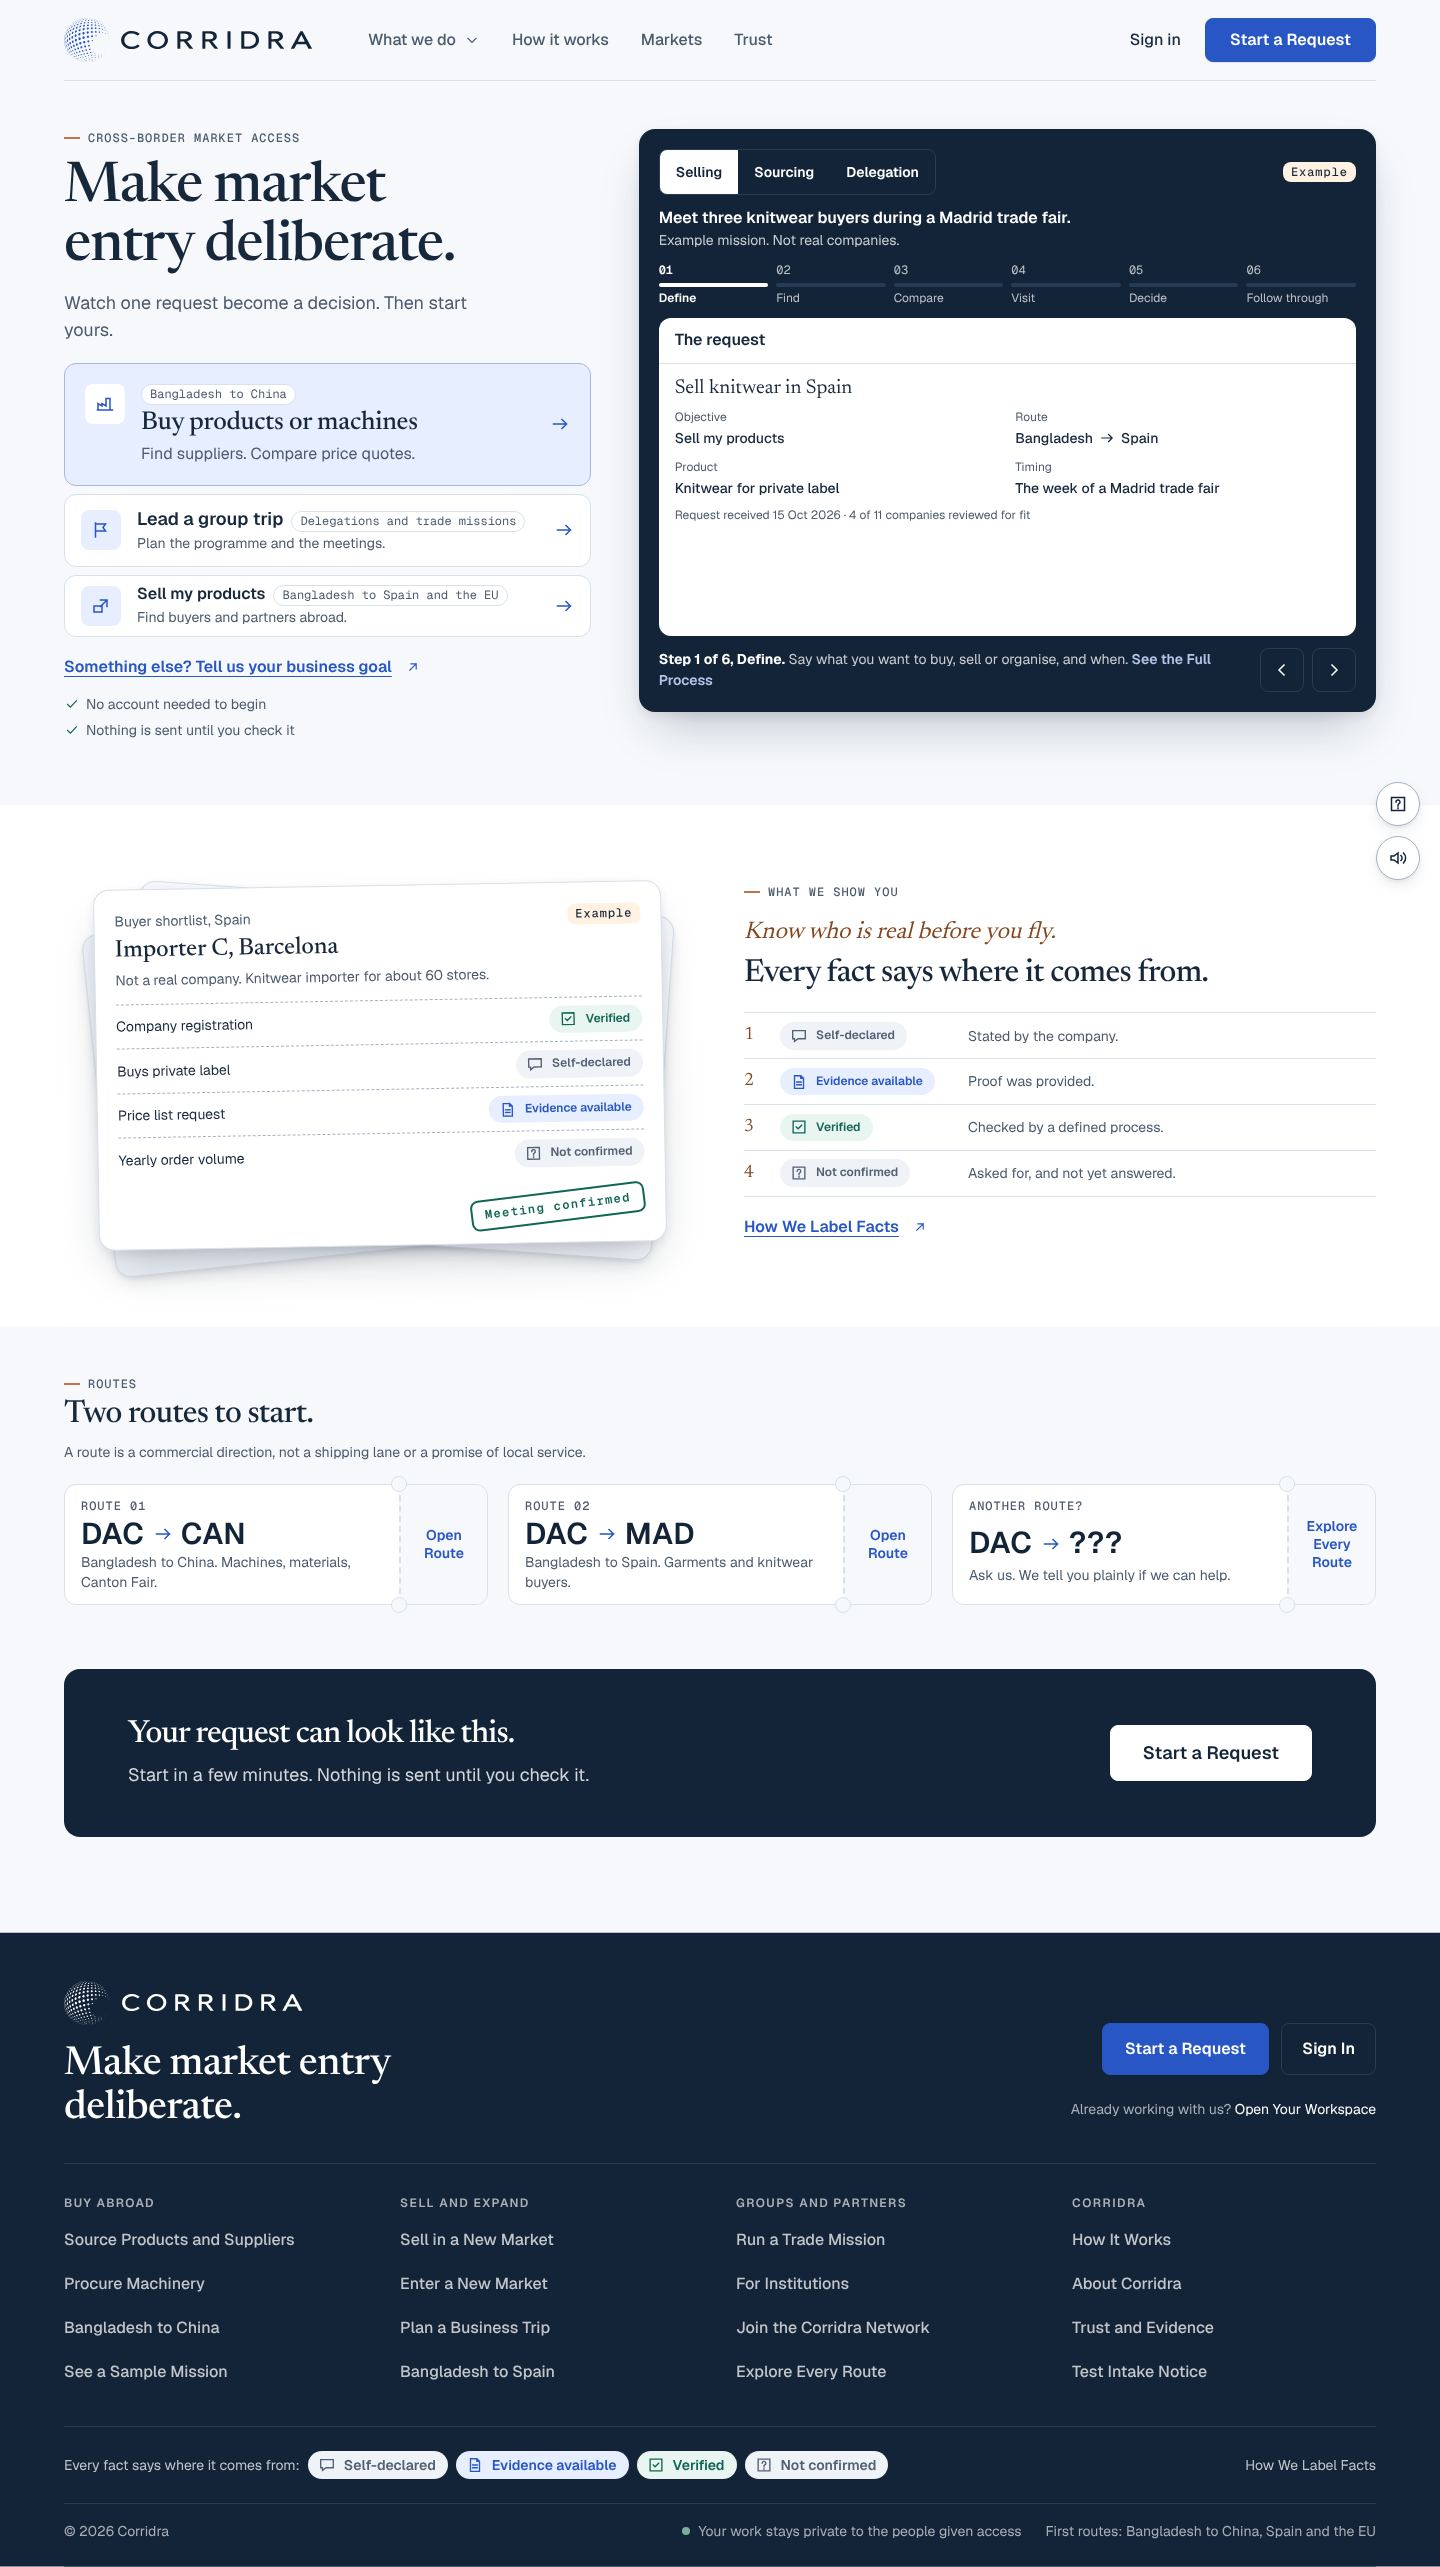
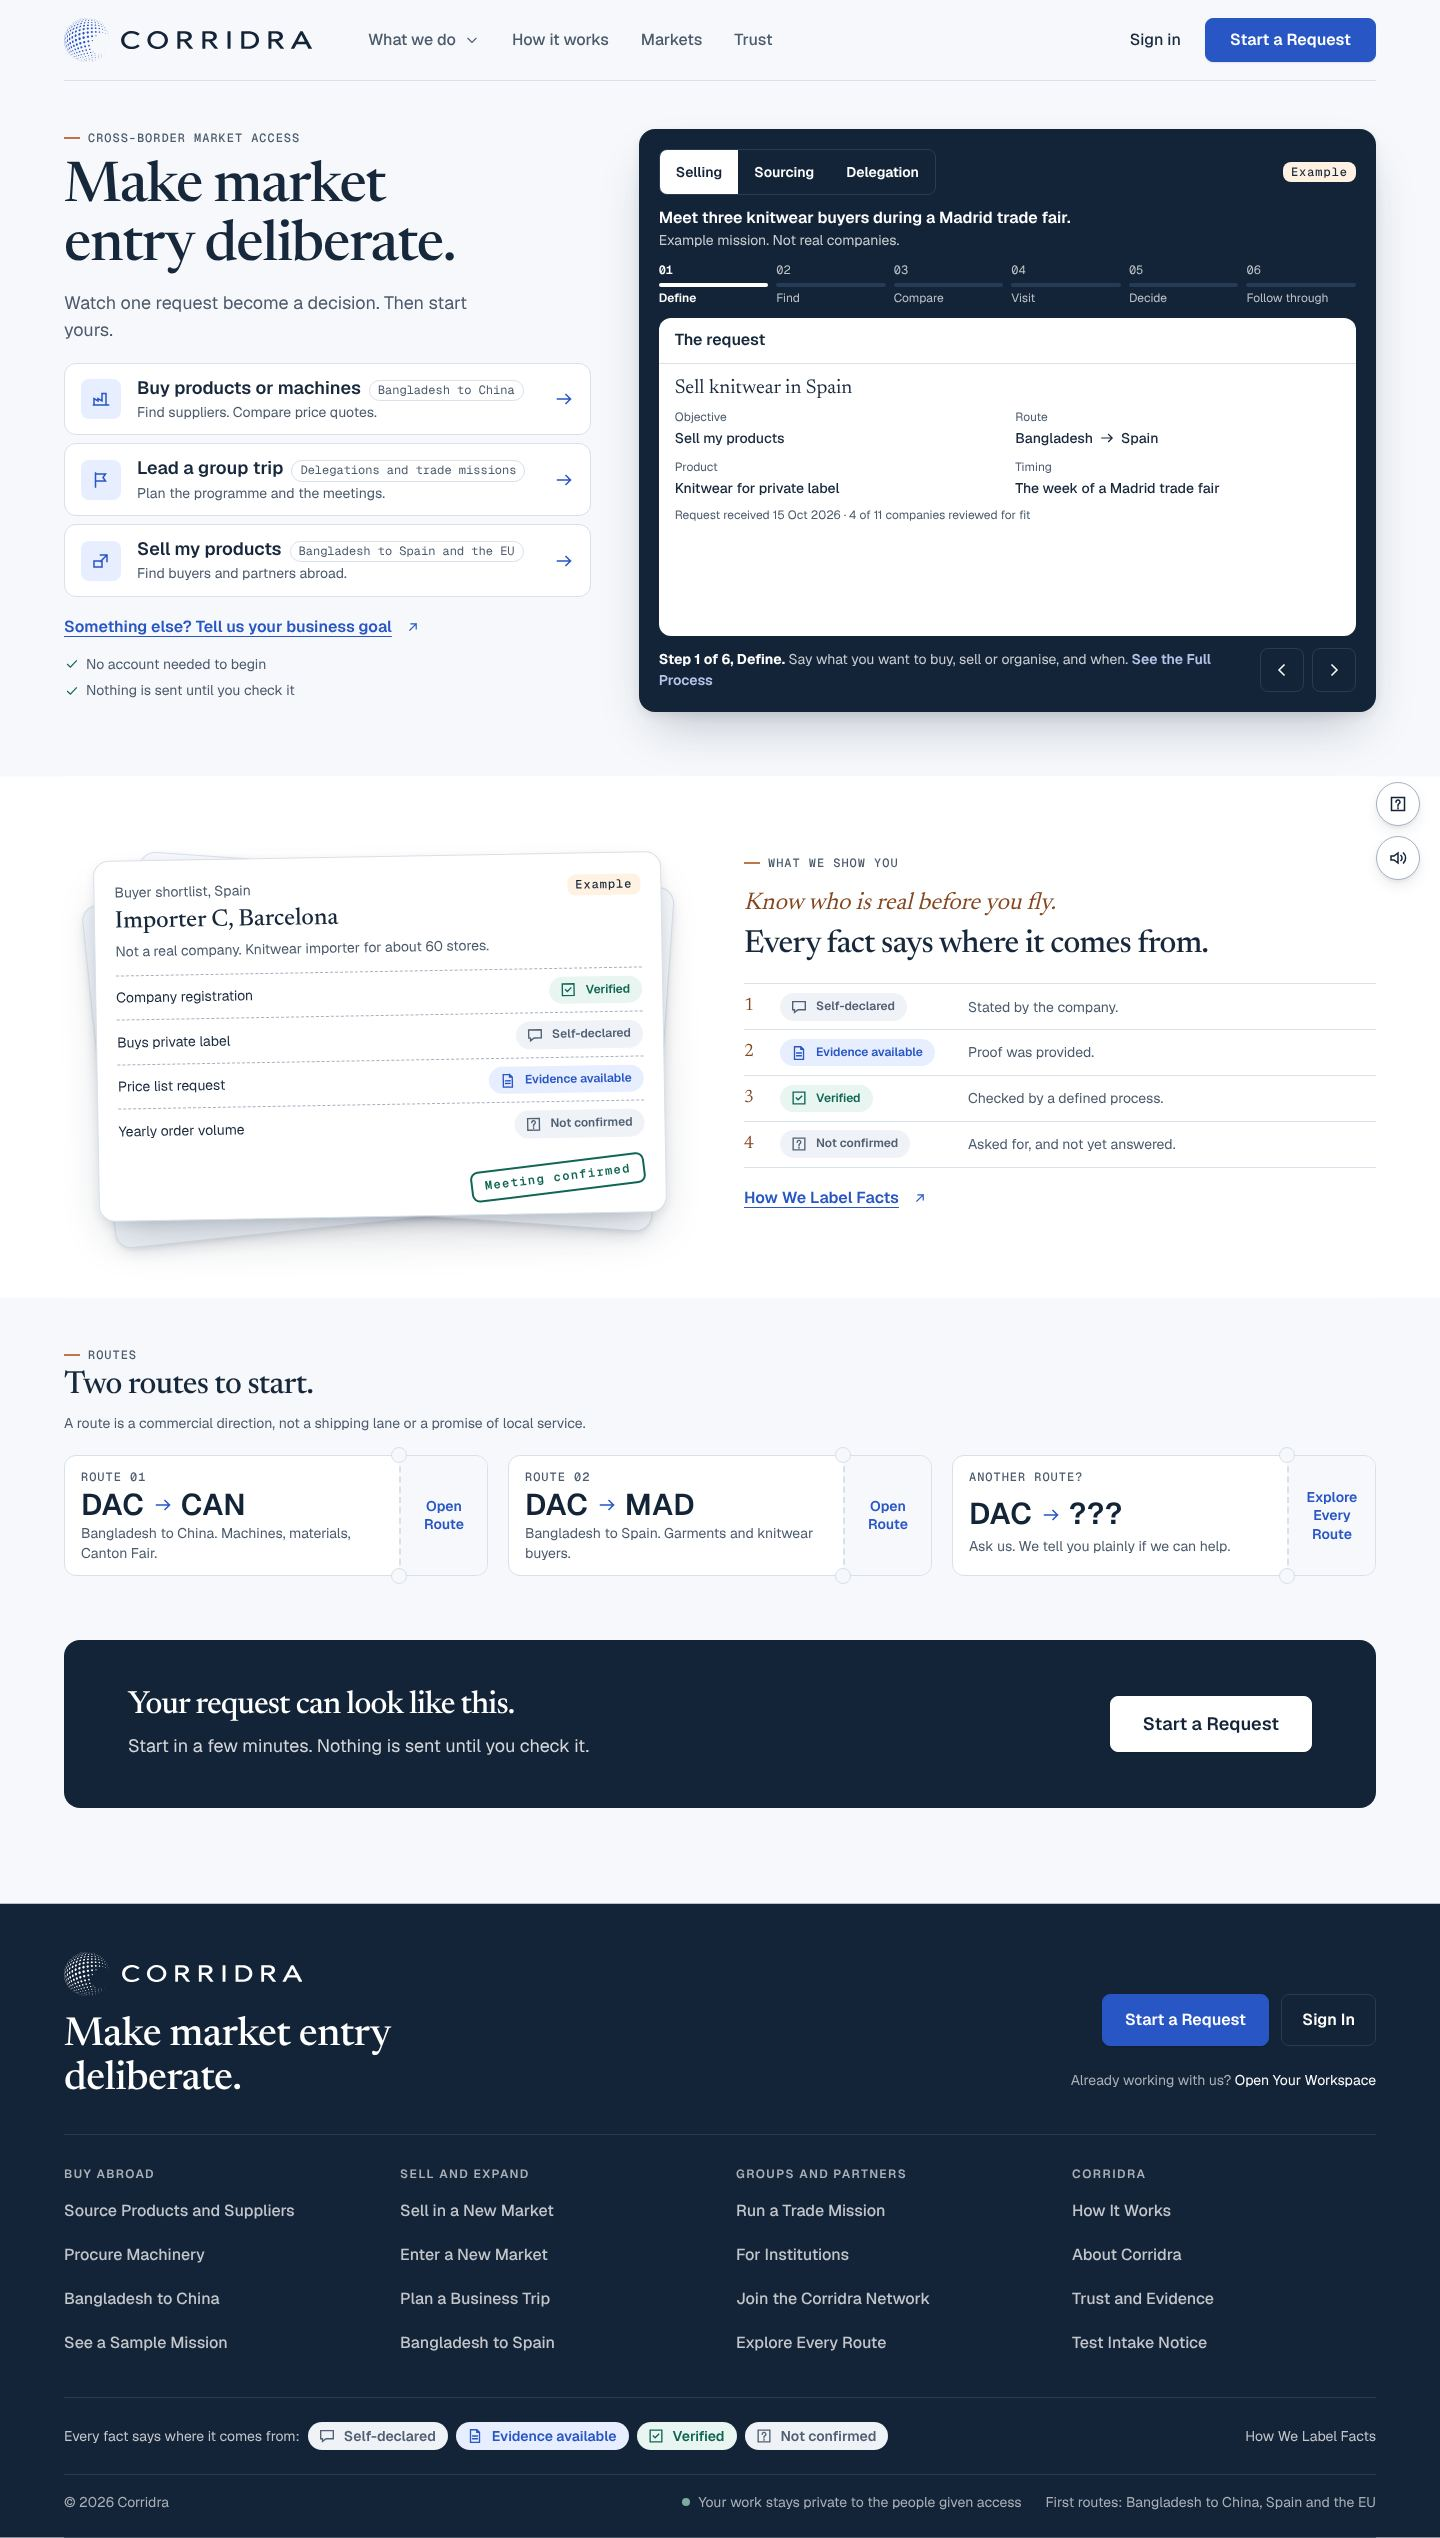
Home jobs at equal weight (owner decision, 12 Nov 2026)
The owner chose "Equal weight": Buy, the group trip and Sell render at the
same size, type and emphasis at every width, in that order. The order stays
one constant (homeJobOrder); an optional homeJobLead, null now, can name a
lead later with no other change. The request page's first step keeps the
same order with no card emphasised. Links, labels, hrefs, route chips and
the Delegation example are unchanged.

Tests: the order test asserts equal weight, and a new browser test asserts
equal width, height, title type and surface at 1440, 768 and 390. Both fail
at 7ff1733 and pass here. After screenshots refreshed.

Claude-Session: https://claude.ai/code/session_0187kU9tNRm7Rjq8KedQErbF

diff --git a/tests/browser/home-concept-g.spec.ts b/tests/browser/home-concept-g.spec.ts
@@ -119,23 +119,23 @@ test('every job link opens its request with the contract name in its accessible 
   await page.goto('/');
   const jobs = page.getByRole('navigation', { name: 'Choose your commercial objective' });
   await expect(jobs.getByRole('link')).toHaveCount(3);
-  // Owner decision, 12 November 2026: the jobs are unequal (Buy leads, then the group trip, then Sell) and each
-  // names its first route. Same titles, lines, contract names and links as before.
+  // Owner decision, 12 November 2026: Buy, the group trip and Sell, in that order and at equal weight, each naming its
+  // first route. Same titles, lines, contract names and links as before.
   const expected = [
     [
       'Buy products or machines Find suppliers. Compare price quotes. Bangladesh to China Find Suppliers & Products',
       '/plan?job=sourcing',
-      'lead',
+      'equal',
     ],
     [
       'Lead a group trip Plan the programme and the meetings. Delegations and trade missions Organise a Delegation',
       '/plan?job=delegations',
-      'normal',
+      'equal',
     ],
     [
       'Sell my products Find buyers and partners abroad. Bangladesh to Spain and the EU Find Buyers & Partners',
       '/plan?job=buyers',
-      'compact',
+      'equal',
     ],
   ] as const;
   for (const [name, href] of expected)
@@ -366,4 +366,38 @@ test('the Delegation example uses the six steps, says it is an example and names
   // Selling and Sourcing are unchanged by the third example.
   await record.getByRole('tab', { name: 'Selling', exact: true }).click();
   await expect(panel).toContainText('Meet three knitwear buyers during a Madrid trade fair.');
+});
+
+test('the three jobs are the same size and weight at 1440, 768 and 390, in the order Buy, group trip, Sell', async ({
+  page,
+}) => {
+  for (const width of [1440, 768, 390]) {
+    await page.setViewportSize({ width, height: 900 });
+    await page.goto('/');
+    await page.evaluate(() => document.fonts.ready);
+    const jobs = page
+      .getByRole('navigation', { name: 'Choose your commercial objective' })
+      .getByRole('link');
+    await expect(jobs).toHaveCount(3);
+    const cards = await jobs.evaluateAll((links) =>
+      links.map((link) => {
+        const box = link.getBoundingClientRect();
+        const title = getComputedStyle(link.querySelector('strong')!);
+        const card = getComputedStyle(link);
+        return {
+          href: link.getAttribute('href'),
+          width: Math.round(box.width),
+          height: Math.round(box.height),
+          title: [title.fontSize, title.fontFamily, title.fontWeight].join(' '),
+          surface: [card.backgroundColor, card.borderTopColor, card.paddingTop].join(' '),
+        };
+      }),
+    );
+    expect(
+      cards.map((card) => card.href),
+      `${width}px order`,
+    ).toEqual(['/plan?job=sourcing', '/plan?job=delegations', '/plan?job=buyers']);
+    for (const key of ['width', 'height', 'title', 'surface'] as const)
+      expect(new Set(cards.map((card) => card[key])).size, `${width}px ${key}`).toBe(1);
+  }
 });

diff --git a/apps/web/components/home-landing.css b/apps/web/components/home-landing.css
@@ -73,12 +73,13 @@
   font-size: var(--text-lead);
   line-height: 1.5;
 }
-/* The three jobs, unequal by default (owner decision, 12 November 2026; order in lib/home-jobs.ts): the lead
-   is a card on a soft cobalt surface with a 26 px serif title, the next is a row, the last is compact but always
-   shown. Each names its first route in a small chip. */
+/* The three jobs at equal weight (owner decision, 12 November 2026, "Equal weight"; order in lib/home-jobs.ts):
+   three cards of one size and one style, each naming its first route in a small chip. Every row of the grid is as
+   tall as the tallest card. The lead and compact rules below apply only if lib/home-jobs.ts names a lead. */
 .ac1-jobs {
   container: ac1-jobs / inline-size;
   display: grid;
+  grid-auto-rows: 1fr;
   gap: var(--space-2);
 }
 .ac1-jobs .ac1-job {
@@ -165,7 +166,7 @@
 .ac1-jobs .ac1-job:hover strong {
   color: var(--action);
 }
-/* The lead: a larger card on the soft cobalt surface, the route chip above the title. */
+/* Only when lib/home-jobs.ts names a lead: a larger card on the soft cobalt surface, the route chip above the title. */
 .ac1-jobs .ac1-job[data-weight='lead'] {
   align-items: start;
   padding: var(--space-5) min(var(--space-5), 5vw);
@@ -209,7 +210,7 @@
     display: none;
   }
 }
-/* The compact job: one quiet row, still a full 44 px target. */
+/* Only when a lead is named, the other jobs are compact: one quiet row, still a full 44 px target. */
 .ac1-jobs .ac1-job[data-weight='compact'] {
   min-height: 3.5rem;
   padding-block: var(--space-2);
@@ -980,8 +981,8 @@
   .ac1-jobs .ac1-job[data-weight='lead'] strong {
     font-size: var(--text-2xl);
   }
-  /* On a phone the two jobs after the lead show their title and route; each line stays in the link's accessible
-     name and is not drawn, so the three jobs and the example fit the phone budget. */
+  /* On a phone each job card shows its title and route; the line stays in the link's accessible name and is not
+     drawn, so the three jobs and the example fit the phone budget. A named lead keeps its line. */
   .ac1-job:not([data-weight='lead']) .ac1-job-text {
     position: absolute;
     width: 1px;

diff --git a/tests/integration/home-jobs-order.test.ts b/tests/integration/home-jobs-order.test.ts
@@ -1,26 +1,28 @@
 import { readFileSync } from 'node:fs';
 import { describe, expect, it } from 'vitest';
-import { homeJobOrder, homeJobs, orderedJobs } from '../../apps/web/lib/home-jobs';
+import { homeJobLead, homeJobOrder, homeJobs, orderedJobs } from '../../apps/web/lib/home-jobs';
 import { homeEn, homeWords } from '../../apps/web/lib/i18n/home-words';
 import { translate } from '../../apps/web/lib/i18n/messages';
 
-// Owner decision, 12 November 2026: the three home jobs are unequal by default and one constant sets the order.
+// Owner decision, 12 November 2026: the three home jobs carry equal weight and one constant sets the order.
 describe('home jobs order', () => {
-  it('leads with Buy, then the group trip, then Sell, with the same links as before', () => {
+  it('draws Buy, the group trip and Sell in that order at equal weight, with the same links as before', () => {
+    // Owner decision, 12 November 2026: "Equal weight".
     expect(homeJobOrder).toEqual(['buy', 'trip', 'sell']);
+    expect(homeJobLead).toBeNull();
     expect(orderedJobs().map(({ job, weight }) => [job.href, weight])).toEqual([
-      ['/plan?job=sourcing', 'lead'],
-      ['/plan?job=delegations', 'normal'],
-      ['/plan?job=buyers', 'compact'],
+      ['/plan?job=sourcing', 'equal'],
+      ['/plan?job=delegations', 'equal'],
+      ['/plan?job=buyers', 'equal'],
     ]);
   });
 
-  it('can flip the lead by reordering the constant only', () => {
+  it('can name a lead later by setting one constant, with no other change', () => {
     expect(
-      orderedJobs(['sell', 'buy', 'trip']).map(({ job, weight }) => [job.key, weight]),
+      orderedJobs(['sell', 'buy', 'trip'], 'sell').map(({ job, weight }) => [job.key, weight]),
     ).toEqual([
       ['sell', 'lead'],
-      ['buy', 'normal'],
+      ['buy', 'compact'],
       ['trip', 'compact'],
     ]);
   });

diff --git a/apps/web/lib/home-jobs.ts b/apps/web/lib/home-jobs.ts
@@ -44,19 +44,26 @@ export const homeJobs: Record<HomeJob['key'], HomeJob> = {
 };
 
 /**
- * The order and weight of the three jobs (owner decision, 12 November 2026: the jobs are unequal by default).
- * The first job leads with a larger card, the second is a normal row and the last is compact but always visible.
- * To change which job leads, reorder this list; nothing else needs to change.
+ * The order of the three jobs. Owner decision, 12 November 2026 ("Equal weight"): Buy, the group trip and Sell are
+ * drawn at the same size and weight, in this order. To change the order, reorder this list.
  */
 export const homeJobOrder: readonly HomeJob['key'][] = ['buy', 'trip', 'sell'];
 
-const weights = ['lead', 'normal', 'compact'] as const;
-export type JobWeight = (typeof weights)[number];
+/**
+ * The job drawn larger than the others, or null for equal weight (the owner's current decision). Setting a key here
+ * makes that job the lead card and the others compact, with no other change.
+ */
+export const homeJobLead: HomeJob['key'] | null = null;
+
+export type JobWeight = 'equal' | 'lead' | 'compact';
 
 /** The jobs in display order, each with its weight. */
-export function orderedJobs(order: readonly HomeJob['key'][] = homeJobOrder) {
-  return order.map((key, index) => ({
+export function orderedJobs(
+  order: readonly HomeJob['key'][] = homeJobOrder,
+  lead: HomeJob['key'] | null = homeJobLead,
+) {
+  return order.map((key) => ({
     job: homeJobs[key],
-    weight: weights[Math.min(index, weights.length - 1)],
+    weight: (lead === null ? 'equal' : key === lead ? 'lead' : 'compact') as JobWeight,
   }));
 }

diff --git a/apps/web/app/plan/plan-jobs.css b/apps/web/app/plan/plan-jobs.css
@@ -1,7 +1,7 @@
-/* The first step of the request page draws its objectives in the home page's order and weight (owner decision,
-   12 November 2026; lib/home-jobs.ts). Visual only: the radio inputs, their names, values and label words are
-   unchanged, and each card keeps its place in the two-column grid so the step stays within its length budget. The
-   lead sits on a soft cobalt surface with a serif title. AC/1 tokens only. */
+/* The first step of the request page draws its objectives in the home page's order (lib/home-jobs.ts). Visual only:
+   the radio inputs, their names, values and label words are unchanged, and each card keeps its place in the
+   two-column grid. Owner decision, 12 November 2026: the jobs carry equal weight, so no card is emphasised; the
+   lead rule applies only if lib/home-jobs.ts names a lead. AC/1 tokens only. */
 .plan-job-words {
   min-width: 0;
 }
